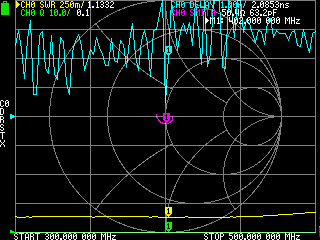
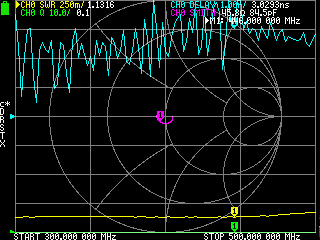
Added data retreival and scan control

diff --git a/nanovna/device.py b/nanovna/device.py
@@ -50,8 +50,10 @@ class NanoVNA:
 
     def _send_command(self, cmd):
         """
-        Users is responsible on the output handling. _send_command reads only the current line, which is the transmitted
-        instruction. Rest of the output can be:
+        Users is responsible on the output handling. Calling _read_lines after execution also acts as a synchronization
+        point for the connection. A new command is not sent to buffer before previous one has outputted a newline or a
+        promt. _send_command reads only the current line up to the next newline, no further.
+        Rest of the output can be:
 
         * <data_lines>\r\n
         * <cmd>? for unrecognized input
@@ -135,3 +137,37 @@ class NanoVNA:
         arr = 0xFF000000 + ((arr & 0xF800) >> 8) + ((arr & 0x07E0) << 5) + ((arr & 0x001F) << 19)
         return PIL.Image.frombuffer('RGBA', (320, 240), arr, 'raw', 'RGBA', 0, 1)
 
+    # data {0|1|2|3|4|5|6}
+    def get_data(self, array=0) -> np.array:
+        if not 0 <= array <= 6:
+            raise AttributeError('There are data arrays only from 0 to 6')
+
+        self._send_command('data %d' % array)
+        lines = self._read_lines()
+        x = []
+        for line in lines:
+            if line:
+                d = line.split(' ')
+                x.append(float(d[0]) + float(d[1]) * 1.j)
+        return np.array(x)
+
+    def get_info(self) -> [str]:
+        self._send_command('info')
+        return self._read_lines()
+
+    def get_sweep(self) -> (int, int, int):
+        self._send_command('sweep')
+        lines = self._read_lines()
+        values = lines[0].split(' ')
+        values = [int(n) for n in values]
+        return values[0], values[1], values[2]
+
+    # you should really recalibrate after changing the sweep
+    def set_sweep(self, start, stop, points):
+        self._send_command('sweep %d %d %d' % (start, stop, points))
+        self._read_lines()
+
+    # sending scan command seems to call pause implicitly
+    def set_scan(self, start, stop, points):
+        self._send_command('scan %d %d %d' % (start, stop, points))
+        self._read_lines()

diff --git a/nanovna/measurements.py b/nanovna/measurements.py
@@ -11,12 +11,23 @@ class Measurements:
         if not os.path.isdir(directory):
             raise AttributeError(f'{directory} is not a directory')
 
+    def clear_screen(self):
+        self.vna.pause()
+        self.vna.set_trace('all', 'off', 0)
+        self.vna.set_trace('all', 'off', 1)
+        self.vna.set_marker(1, 'off')
+        self.vna.set_marker(2, 'off')
+        self.vna.set_marker(3, 'off')
+        self.vna.set_marker(4, 'off')
+        self.vna.resume()  # refresh the screen to show the blanking
+        time.sleep(0.5)
+
     def polar(self):
         self.vna.set_trace(0, 'polar', 0)
         self.vna.set_trace(1, 'linear', 0)
         self.vna.set_trace(2, 'real', 0)
         self.vna.set_trace(3, 'imag', 0)
-        time.sleep(3)
+        time.sleep(0.5)
 
         capture = self.vna.capture()
         capture.save(f'{self.directory}/{self.prefix}-polar.png', 'PNG')
@@ -26,7 +37,8 @@ class Measurements:
         self.vna.set_trace(1, 'phase', 0)
         self.vna.set_trace(2, 'delay', 0)
         self.vna.set_trace(3, 'smith', 0)
-        time.sleep(3)
+        time.sleep(0.5)
+
         capture = self.vna.capture()
         capture.save(f'{self.directory}/{self.prefix}-smith.png', 'PNG')
 
@@ -35,7 +47,7 @@ class Measurements:
         self.vna.set_trace(1, 'r', 0)
         self.vna.set_trace(2, 'x', 0)
         self.vna.set_trace(3, 'q', 0)
-        time.sleep(3)
+        time.sleep(0.5)
 
         capture = self.vna.capture()
         capture.save(f'{self.directory}/{self.prefix}-swr.png', 'PNG')

diff --git a/nanovna-testing.py b/nanovna-testing.py
@@ -1,3 +1,5 @@
+import numpy
+
 import nanovna
 import time
 import logging
@@ -33,26 +35,31 @@ def full_pull():
     capture.save(f'{DIR}/{PREFIX}-swr.png', 'PNG')
 
 
-def clear_screen():
-    vna.pause()
-    vna.set_trace('all', 'off', 0)
-    vna.set_trace('all', 'off', 1)
-    vna.set_marker(1, 'off')
-    vna.set_marker(2, 'off')
-    vna.set_marker(3, 'off')
-    vna.set_marker(4, 'off')
-    vna.resume()  # refresh the screen to show the blanking
-    time.sleep(1)
-    vna.pause()
-    vna.set_trace(0, 'smith', 0)
+def snapshot_test():
+    measurements = nanovna.Measurements(vna, DIR, PREFIX)
+    measurements.clear_screen()
+
+    vna.set_trace(0, 'polar', 0)
+    vna.set_trace(1, 'linear', 0)
+    vna.set_trace(2, 'real', 0)
+    vna.set_trace(3, 'imag', 0)
     vna.set_marker(1, 73)
+
+    start, stop, points = vna.get_sweep()
+    vna.set_scan(start, stop, points)
+
+    data0 = vna.get_data()
+    logging.debug('Got one array, waiting for a hot second for the second retrieval.')
     time.sleep(2)
+    data1 = vna.get_data()
+    assert numpy.array_equal(data0, data1)
+
     vna.resume()
 
 
 #capture = vna.capture()
 #capture.save(f'{DIR}/{PREFIX}-smith.png', 'PNG')
-full_pull()
-full_pull()
-full_pull()
-full_pull()
+#vna.set_sweep(300e6, 500e6, 101)
+#vna.set_marker(1, 73)
+#full_pull()
+snapshot()
